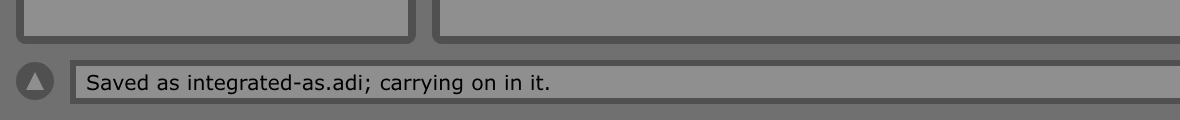
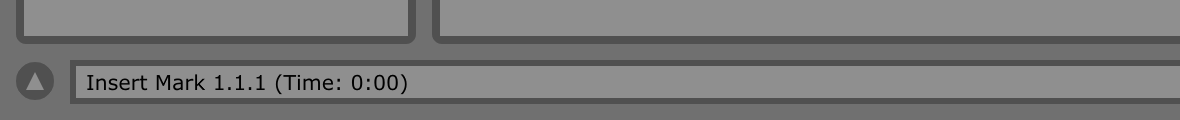
window: Save As says nothing on success, keeps a typed name's dots, and stands once the store has switched (A1 review)
The reviews of window/save-as: a success clears the Status Bar as Live's Save Live Set As
and ADI's New and Open do (parity-7.2-shell row 4), only a warning goes there; New and Save
As append .adi instead of JUCE's withFileExtension, which cut "Song v1.2" to "Song v1.adi";
ProjectDocument::saveAs returns true once the store has switched, a session that failed to
re-read the new file as a warning, so false still means nothing moved; the document check
pins the view's new generation after Save As. The parity row records all of it; the picture
shows the Status Bar back to its ordinary text.

Changed region(s): [[0.061, 0.625, 0.4881, 0.775]]

diff --git a/adi_daw/src/juce/ui_main.cpp b/adi_daw/src/juce/ui_main.cpp
@@ -8,6 +8,17 @@
 #include "ui_shell.hpp"
 #include <juce_audio_utils/juce_audio_utils.h>
 namespace adi::ui {
+namespace {
+// A name typed into a save chooser, as an `.adi` file. Appended, never swapped in: JUCE's
+// `withFileExtension` cuts the name at its last dot, so "Song v1.2" would become "Song v1.adi"
+// where Live writes "Song v1.2.als". The native choosers on Windows and macOS add the extension
+// themselves; Linux's hand the typed name back.
+juce::File withAdiExtension(const juce::File &file) {
+    if (file.hasFileExtension("adi"))
+        return file;
+    return file.getParentDirectory().getChildFile(file.getFileName() + ".adi");
+}
+} // namespace
 class AdiApplication final : public juce::JUCEApplication,
                              private juce::Timer,
                              private juce::ChangeListener {
@@ -263,9 +274,11 @@ class AdiApplication final : public juce::JUCEApplication,
             true);
     }
     // Save As, once the chooser has a file: the document carries on in it and the window takes
-    // its name. The store never overwrites, so an existing file is refused and the Status Bar
-    // says why, where Live asks first and then replaces; a warning the store reports goes there
-    // too.
+    // its name, and that is all Live shows (manual 5.4.1). As after New and Open, a success says
+    // nothing in the Status Bar and clears what a refusal left there (parity-7.2-shell row 4);
+    // only a warning the store or the session reports goes there. The store never overwrites,
+    // so an existing file is refused and the Status Bar says why, where Live asks first and
+    // then replaces.
     void saveAs(const juce::File &file) {
         if (!document_ || !root_ || !window_)
             return;
@@ -274,10 +287,7 @@ class AdiApplication final : public juce::JUCEApplication,
             return;
         }
         window_->setName("ADI - " + file.getFileNameWithoutExtension());
-        auto said = "Saved as " + file.getFileName().toStdString() + "; carrying on in it.";
-        if (!document_->warning().empty())
-            said += " " + document_->warning();
-        root_->say(std::move(said));
+        root_->say(document_->warning());
     }
     bool applicationCommand(int id) {
         if (id == AppCommands::Quit) {
@@ -302,7 +312,7 @@ class AdiApplication final : public juce::JUCEApplication,
                                   [this](const juce::FileChooser &chooser) {
                                       const auto file = chooser.getResult();
                                       if (file != juce::File{})
-                                          saveAs(file.withFileExtension("adi"));
+                                          saveAs(withAdiExtension(file));
                                       juce::MessageManager::callAsync([this] {
                                           if (juce::JUCEApplicationBase::getInstance() == this)
                                               chooser_.reset();
@@ -349,7 +359,7 @@ class AdiApplication final : public juce::JUCEApplication,
             auto file = chooser.getResult();
             if (file != juce::File{}) {
                 if (create)
-                    file = file.withFileExtension("adi");
+                    file = withAdiExtension(file);
                 install(file, create);
             }
             // Do not destroy the chooser while its completion callback is on the stack.

diff --git a/adi_daw/tests/test_ui_shell.cpp b/adi_daw/tests/test_ui_shell.cpp
@@ -4023,11 +4023,11 @@ int main(int argc, char **argv) {
             }
             if (id == AppCommands::SaveAs) {
                 // As the application does once its chooser has a file (Live 41.3; N3): the
-                // document carries on in the new file and the Status Bar says so, or why not.
+                // document carries on in the new file; the Status Bar says nothing on success,
+                // as after New and Open (only a warning), and why on a refusal.
                 ++saveAs;
                 const bool saved = document->saveAs(temp.path() / "integrated-as.adi");
-                integrated.say(saved ? "Saved as integrated-as.adi; carrying on in it."
-                                     : document->error());
+                integrated.say(saved ? document->warning() : document->error());
                 return saved;
             }
             if (id != AppCommands::TakeSnapshot)
@@ -4117,12 +4117,13 @@ int main(int argc, char **argv) {
         };
         const auto saveAsKey = juce::KeyPress(
             's', juce::ModifierKeys::commandModifier | juce::ModifierKeys::shiftModifier, 0);
-        check(integrated.keyPressed(saveAsKey) && saveAs == 1 &&
-                  integrated.error() == "Saved as integrated-as.adi; carrying on in it." &&
+        integrated.say("a message a success clears");
+        check(integrated.keyPressed(saveAsKey) && saveAs == 1 && integrated.error().empty() &&
                   document->name() == "integrated-as" &&
                   std::filesystem::equivalent(document->store().path(), temp.path() / "integrated-as.adi") &&
                   document->session().model().tracks.size() == 2,
-              "Ctrl/Cmd+Shift+S saves as: the document carries on in the new file (Live 41.3)");
+              "Ctrl/Cmd+Shift+S saves as: the document carries on in the new file, the Status Bar "
+              "cleared (Live 41.3)");
         integrated.frame();
         shotIntegrated("adi-save-as.png");
         check(integrated.keyPressed(saveAsKey) && saveAs == 2 &&

diff --git a/adi_daw/tests/test_ui_document.cpp b/adi_daw/tests/test_ui_document.cpp
@@ -260,12 +260,17 @@ int main(int argc, char **argv) {
             const auto folder = temp.path() / "saved";
             std::filesystem::create_directories(folder);
             const auto after = folder / "after.adi";
+            const auto generationBefore = saving->view().generation();
             check(saving->saveAs(after) && saving->error().empty() && saving->warning().empty() &&
                       std::filesystem::equivalent(saving->store().path(), after) && saving->name() == "after",
                   "Save As writes the new file and the document carries on in it, under its name");
             check(saving->snapshotName(noon, 120) == "after 2025-10-27 14:00",
                   "the Take Snapshot prompt is pre-filled with the new name");
-            check(saving->view().current()->findTrack(8) != nullptr && saving->session().model().tracks.size() == 8,
+            // The re-read the Store header asks for after a Save As: a new generation of the
+            // view, which the session has already caught up with.
+            check(saving->view().generation() > generationBefore && saving->synchronise() &&
+                      saving->view().current()->findTrack(8) != nullptr &&
+                      saving->session().model().tracks.size() == 8,
                   "the view and the session read the new file");
             OpRequest second;
             second.opType = "track.create";

diff --git a/adi_daw/src/adi/ui/project_document.cpp b/adi_daw/src/adi/ui/project_document.cpp
@@ -78,10 +78,15 @@ bool ProjectDocument::saveAs(const std::filesystem::path &path) {
     const auto stem = store_->path().stem().u8string();
     name_.assign(reinterpret_cast<const char *>(stem.data()), stem.size());
     // The same rows, read again from the new file: the generation moves, the session follows
-    // through synchronise(), and every window follows at its next frame.
+    // through synchronise(), and every window follows at its next frame. The store has switched
+    // by now, so false would lie ("nothing moved"): a session that fails to re-read is a warning
+    // on a save that stands, and the next synchronise() tries again.
     view_.refresh(*store_);
-    if (!synchronise())
-        return false;
+    if (!synchronise()) {
+        if (!warning_.empty())
+            warning_ += ' ';
+        warning_ += "Saved, but the session did not re-read the file: " + error_;
+    }
     error_.clear();
     return true;
 }

diff --git a/adi_daw/src/adi/ui/project_document.hpp b/adi_daw/src/adi/ui/project_document.hpp
@@ -35,7 +35,9 @@ class ProjectDocument final : public engine::BlockProcessor {
     // new `.adi` and carries on in it (`Store::saveAs`, #380), called with no live statement held
     // (SPEC §3.7); the name, the view and the session follow, and the caller retitles the window.
     // The store never overwrites, so an existing destination is refused and `error()` says why,
-    // where Live asks first and then replaces. A warning the store reports is in `warning()`.
+    // where Live asks first and then replaces. False means nothing moved; once the store has
+    // switched the save stands and is true, a warning the store reports, or a session that
+    // failed to re-read the new file, in `warning()`.
     bool saveAs(const std::filesystem::path &);
     const std::string &warning() const noexcept { return warning_; }
     bool synchronise();

diff --git a/adi_daw/collab/window/parity-7.2-application.md b/adi_daw/collab/window/parity-7.2-application.md
@@ -12,7 +12,7 @@ Status as in `parity-7.2-shell.md`: built, partial, open, measure.
 | 1 | New Live Set: Ctrl/Cmd+N | §41.3, p. 986; ADR-0209 §10 d10 | A new project as Live's default Set: Main, 1 MIDI, 2 MIDI, 3 Audio, 4 Audio, 120 BPM in 4/4, written at once into the default projects folder (`files.projectsFolder`, else the app's own folder): ADI has no unsaved state (ADR-0003). The store writes it as the history's root (`Store::createNewProject`, #307; `window/new-project-root`) | built; a known difference: Live's new Set is untitled until saved |
 | 2 | Open Live Set: Ctrl/Cmd+O | §41.3, p. 986 | A file chooser for `.adi`; a file that fails to open leaves the current project open | built |
 | 3 | Save Live Set: Ctrl/Cmd+S | §41.3, p. 986 | **Take Snapshot**: a named point in the history, the prompt pre-filled with the project's name and the time; not an edit, not an undo step (ADR-0203 d6, d12, d13) | built (the director's deviation) |
-| 4 | Save Live Set As: Ctrl/Cmd+Shift+S, a new file the Set carries on in, under a new name and/or in a new folder | §5.4.1, p. 130; §41.3, p. 986 | A save chooser for `.adi`, opened beside the current file; `ProjectDocument::saveAs` calls `Store::saveAs` (#380, N3) with no live statement held, takes the new name (the Take Snapshot prompt uses it), reads the view and the session again from the new file, and the window is retitled. The history comes along: undo still reaches an edit made before Save As, the next edit lands in the new file and the old file is unchanged. The Status Bar confirms ("Saved as x.adi; carrying on in it.") and carries a warning the store reports (`window/save-as`; pictures `2026-11-08-save-as.png`, `…-refused.png`) | built; a known difference: Live asks before replacing an existing file, ADI never replaces a project, so an existing destination is refused and the Status Bar says why. Open on macOS: main's heavy legs fail `adi_project_files_tests` on Save As with audio media (N3, win's) |
+| 4 | Save Live Set As: Ctrl/Cmd+Shift+S, a new file the Set carries on in, under a new name and/or in a new folder | §5.4.1, p. 130; §41.3, p. 986 | A save chooser for `.adi`, opened beside the current file; `ProjectDocument::saveAs` calls `Store::saveAs` (#380, N3) with no live statement held, takes the new name (the Take Snapshot prompt uses it), reads the view and the session again from the new file (a new view generation), and the window is retitled. The history comes along: undo still reaches an edit made before Save As, the next edit lands in the new file and the old file is unchanged. A success says nothing in the Status Bar and clears what was there, as after New and Open (`parity-7.2-shell.md` row 4); only a warning the store reports, or a session that failed to re-read the new file, goes there. A typed name keeps its dots ("Song v1.2" saves as `Song v1.2.adi`) (`window/save-as`; pictures `2026-11-08-save-as.png`, `…-refused.png`) | built; a known difference: Live asks before replacing an existing file, ADI never replaces a project, so an existing destination is refused and the Status Bar says why. Open on macOS: main's heavy legs fail `adi_project_files_tests` on Save As with audio media (N3, win's) |
 | 5 | Creating a Set is the first entry in the Undo History and cannot be undone | §5.4.2, p. 131 | A new project is the history's root: nothing to undo, the Edit menu greyed out (#307). A project an earlier build made began with a "New project" step, which undo still stops at, saying there is nothing to undo | built |
 | 6 | Opening a Set starts a fresh history (Live's history is not saved with the Set) | §5.4.2, p. 131 | ADI's history is in the file, so a reopened project undoes its earlier edits | ADI's addition (ADR-0003); never its creation |
 | 7 | The Edit menu's Undo and Redo name the action | §5.4.2, p. 131; §41.5 | "Undo Create track" and the like, from the history's own labels | built |
